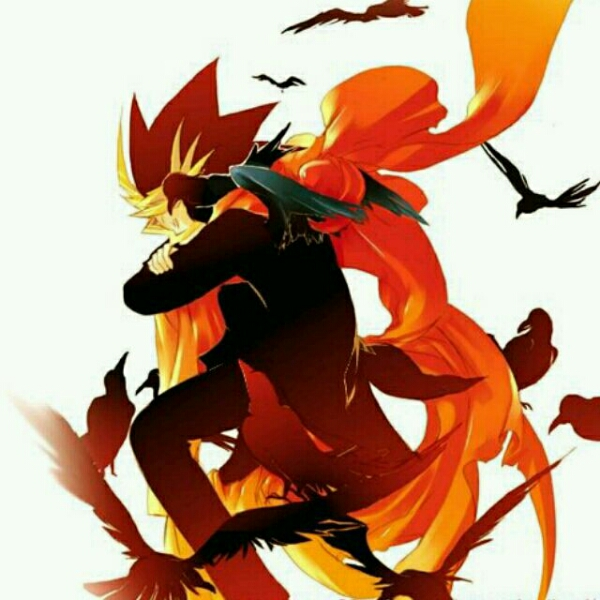
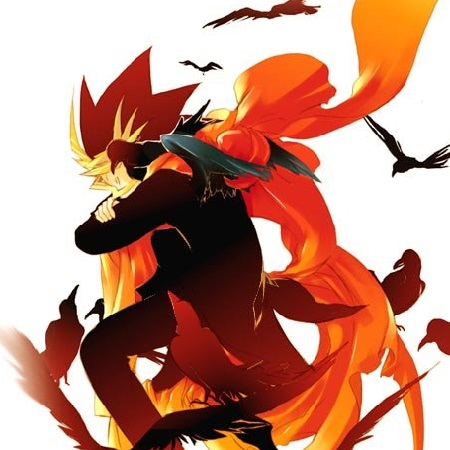
Site updated: 2018-05-29 00:21:34

diff --git a/2018/04/06/hello-world/index.html b/2018/04/06/hello-world/index.html
@@ -128,7 +128,7 @@
             z-index: -1;
             background-image: url('/images/background.jpg');
             background-repeat: no-repeat;
-            background-position: center -36px;
+            background-position: center -256px;
             background-size: cover;
             background-color: transparent;
         }
@@ -136,7 +136,7 @@
         header.cube-background.cube-header-background {
             visibility: hidden;
             background-image: url('/images/background.jpg');
-            background-position: center -80px;
+            background-position: center -300px;
         }
     </style>
     <header class="cube-background cube-header-background">
@@ -153,8 +153,8 @@
 
             window.headerModule = {}
             window.headerModule.image = {
-                width: '900',
-                height: '500'
+                width: '1900',
+                height: '1200'
             }
 
         })(window)

diff --git a/archives/2018/04/index.html b/archives/2018/04/index.html
@@ -128,7 +128,7 @@
             z-index: -1;
             background-image: url('/images/background.jpg');
             background-repeat: no-repeat;
-            background-position: center -36px;
+            background-position: center -256px;
             background-size: cover;
             background-color: transparent;
         }
@@ -136,7 +136,7 @@
         header.cube-background.cube-header-background {
             visibility: hidden;
             background-image: url('/images/background.jpg');
-            background-position: center -80px;
+            background-position: center -300px;
         }
     </style>
     <header class="cube-background cube-header-background">
@@ -153,8 +153,8 @@
 
             window.headerModule = {}
             window.headerModule.image = {
-                width: '900',
-                height: '500'
+                width: '1900',
+                height: '1200'
             }
 
         })(window)

diff --git a/archives/2018/index.html b/archives/2018/index.html
@@ -128,7 +128,7 @@
             z-index: -1;
             background-image: url('/images/background.jpg');
             background-repeat: no-repeat;
-            background-position: center -36px;
+            background-position: center -256px;
             background-size: cover;
             background-color: transparent;
         }
@@ -136,7 +136,7 @@
         header.cube-background.cube-header-background {
             visibility: hidden;
             background-image: url('/images/background.jpg');
-            background-position: center -80px;
+            background-position: center -300px;
         }
     </style>
     <header class="cube-background cube-header-background">
@@ -153,8 +153,8 @@
 
             window.headerModule = {}
             window.headerModule.image = {
-                width: '900',
-                height: '500'
+                width: '1900',
+                height: '1200'
             }
 
         })(window)

diff --git a/archives/index.html b/archives/index.html
@@ -128,7 +128,7 @@
             z-index: -1;
             background-image: url('/images/background.jpg');
             background-repeat: no-repeat;
-            background-position: center -36px;
+            background-position: center -256px;
             background-size: cover;
             background-color: transparent;
         }
@@ -136,7 +136,7 @@
         header.cube-background.cube-header-background {
             visibility: hidden;
             background-image: url('/images/background.jpg');
-            background-position: center -80px;
+            background-position: center -300px;
         }
     </style>
     <header class="cube-background cube-header-background">
@@ -153,8 +153,8 @@
 
             window.headerModule = {}
             window.headerModule.image = {
-                width: '900',
-                height: '500'
+                width: '1900',
+                height: '1200'
             }
 
         })(window)

diff --git a/index.html b/index.html
@@ -128,7 +128,7 @@
             z-index: -1;
             background-image: url('/images/background.jpg');
             background-repeat: no-repeat;
-            background-position: center -36px;
+            background-position: center -256px;
             background-size: cover;
             background-color: transparent;
         }
@@ -136,7 +136,7 @@
         header.cube-background.cube-header-background {
             visibility: hidden;
             background-image: url('/images/background.jpg');
-            background-position: center -80px;
+            background-position: center -300px;
         }
     </style>
     <header class="cube-background cube-header-background">
@@ -153,8 +153,8 @@
 
             window.headerModule = {}
             window.headerModule.image = {
-                width: '900',
-                height: '500'
+                width: '1900',
+                height: '1200'
             }
 
         })(window)
